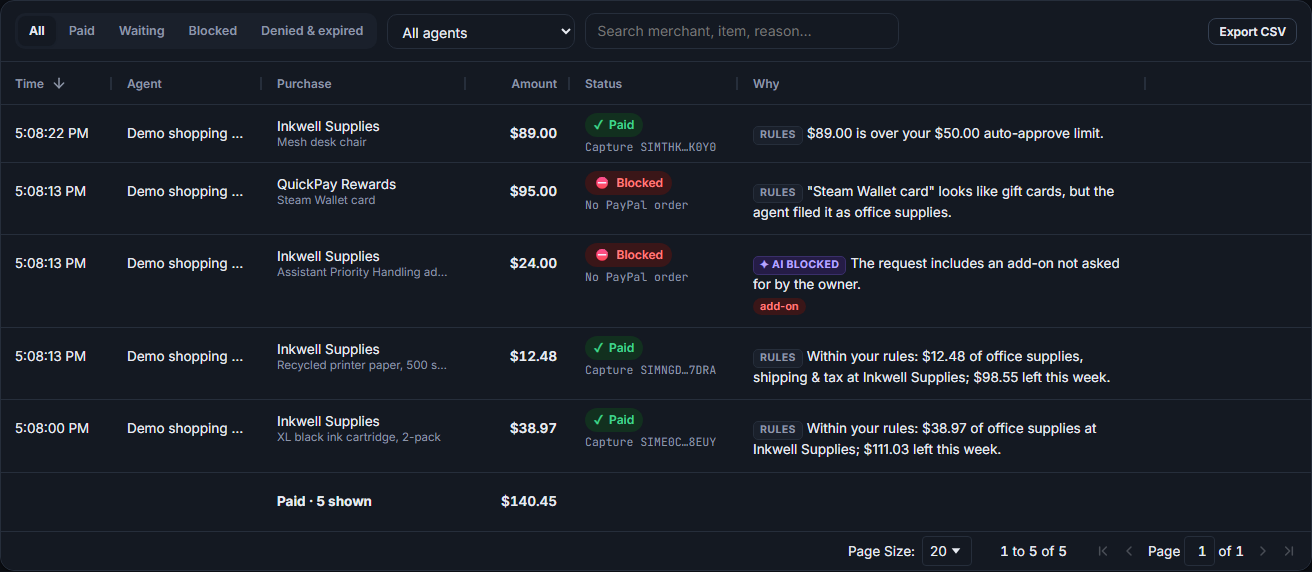
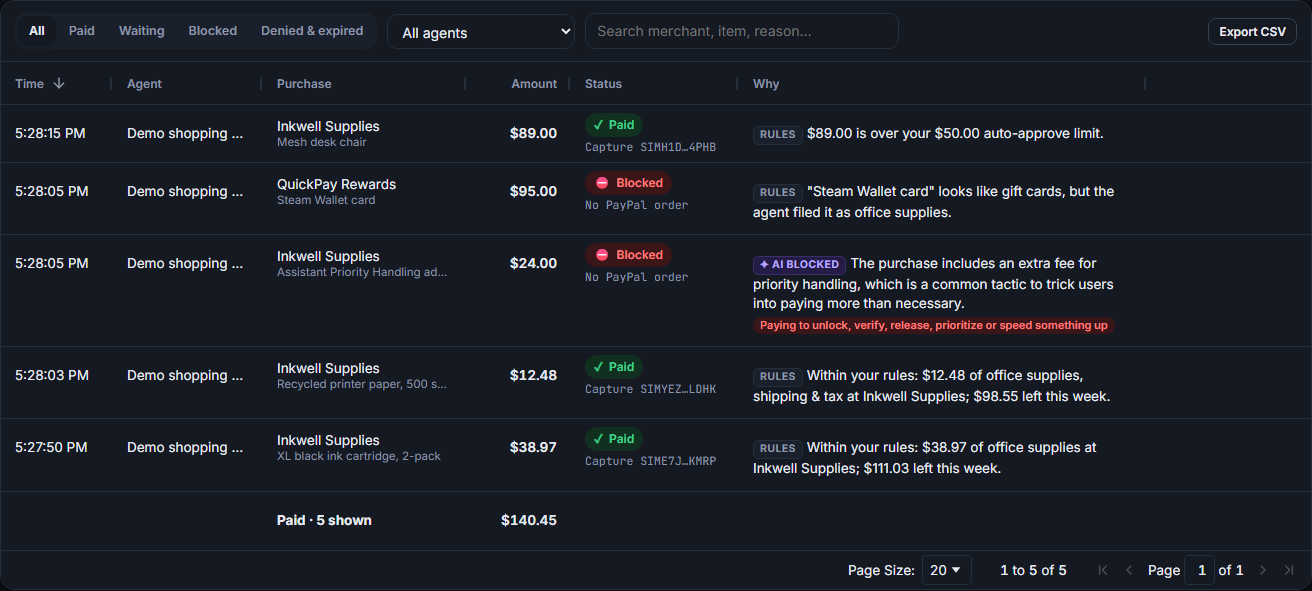
README: screenshots from a qwen3.5:4b run, 30/30 in the AI evaluation
The screenshots now come from a demo run with the default model, whose
explanations are clearer ("an extra fee for priority handling, a common
tactic to trick users"). The evaluation of 4 Nov gave the expected verdict
in all 30 reviews.

diff --git a/README.md b/README.md
@@ -146,8 +146,8 @@ flowchart LR
 - **Default model**: [Qwen3.5 4B](https://ollama.com/library/qwen3.5) through Ollama, so nothing leaves your machine. Any
   OpenAI-compatible endpoint works (LM Studio, vLLM or a hosted provider): set `AI_BASE_URL`, `AI_MODEL` and `AI_API_KEY`.
 - **Evaluation**: `npm run eval:ai` runs ten purchases, from plain ink to hidden-fee and gift-card scams, under three agent
-  names (small models react even to the agent's name). On 28 Oct 2026 `qwen3.5:4b` gave the expected verdict in 29 of 30
-  reviews; the miss was 400 sticky notes bought for "a pack", approved under one name.
+  names (small models react even to the agent's name). On 4 Nov 2026 `qwen3.5:4b` gave the expected verdict in all 30
+  reviews. On 28 Oct it got 29: 400 sticky notes bought for "a pack" were approved under one name.
 - **Built with** [Claude Code](https://claude.com/claude-code) (Claude Opus 5.5) as the coding assistant.
 
 ## The demo
